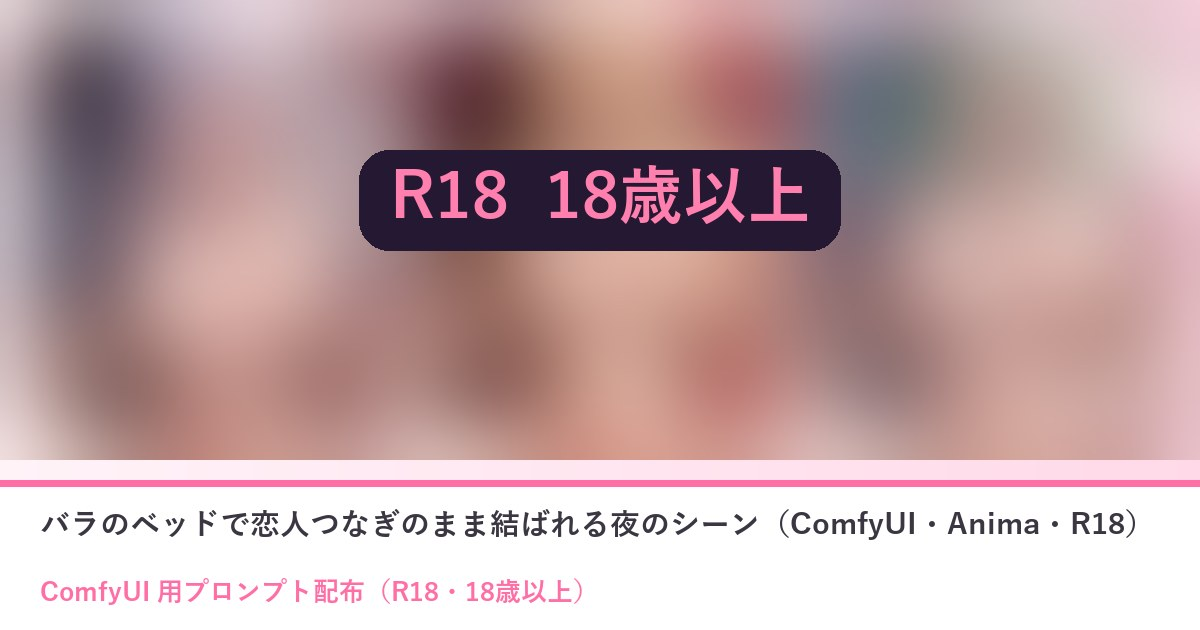
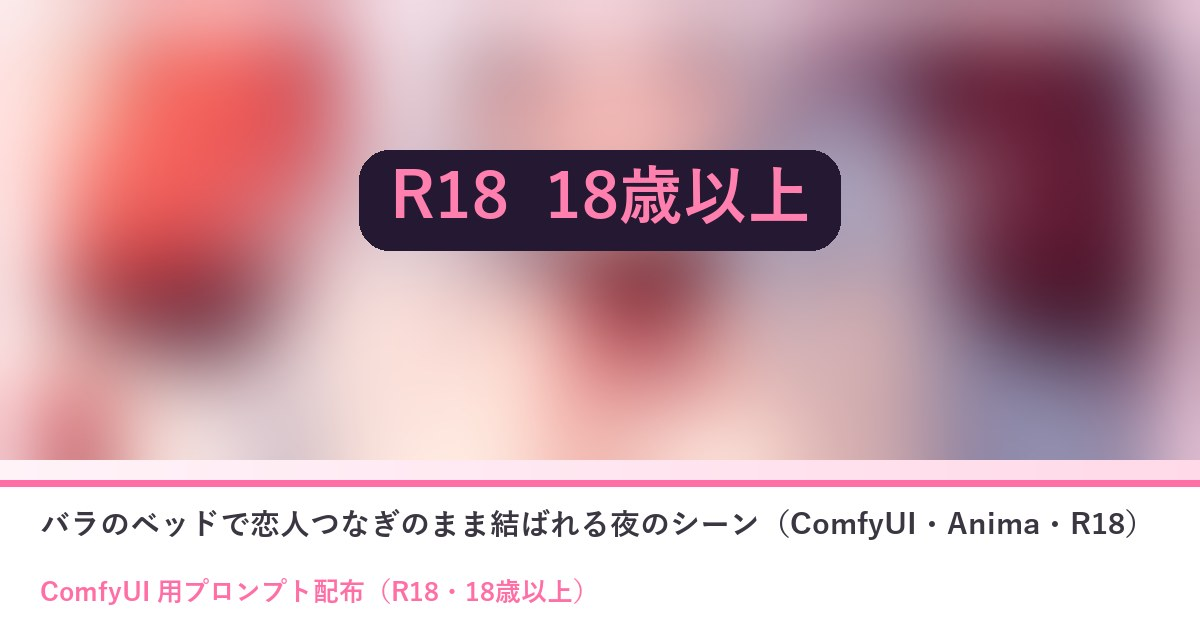
プロンプト配布 10/02 R18 を1枚・LoRA あり／なしに作り直し

diff --git a/prompts/2026-10-02-comfy-r18-j7m9mznm.html b/prompts/2026-10-02-comfy-r18-j7m9mznm.html
@@ -4,16 +4,16 @@
 <meta charset="UTF-8"><meta name="robots" content="noindex, nofollow, noarchive"><meta name="referrer" content="strict-origin">
 <meta name="viewport" content="width=device-width, initial-scale=1">
 <title>バラのベッドで恋人つなぎのまま結ばれる夜のシーン（ComfyUI・Anima・R18）｜ひみつの眠り姫</title>
-<meta name="description" content="バラの花びらを散らしたベッドに、ろうそくと月の明かり。両手を恋人つなぎにしたまま、上から見下ろす目線で正常位で結ばれて、ハートの瞳でとろけて笑う……甘くていやらしい初夜のようなシーンのプロンプトです（18歳以上の方だけ）">
+<meta name="description" content="バラの花びらを散らしたベッドに、ろうそくと月の明かり。両手を恋人つなぎにしたまま、上から見下ろす目線で正常位で結ばれて、とろけて笑う……甘くていやらしい初夜のようなシーンのプロンプトです（18歳以上の方だけ）。LoRA ">
 <meta property="og:title" content="バラのベッドで恋人つなぎのまま結ばれる夜のシーン（ComfyUI・Anima・R18）｜ひみつの眠り姫">
-<meta property="og:description" content="バラの花びらを散らしたベッドに、ろうそくと月の明かり。両手を恋人つなぎにしたまま、上から見下ろす目線で正常位で結ばれて、ハートの瞳でとろけて笑う……甘くていやらしい初夜のようなシーンのプロンプトです（18歳以上の方だけ）">
+<meta property="og:description" content="バラの花びらを散らしたベッドに、ろうそくと月の明かり。両手を恋人つなぎにしたまま、上から見下ろす目線で正常位で結ばれて、とろけて笑う……甘くていやらしい初夜のようなシーンのプロンプトです（18歳以上の方だけ）。LoRA ">
 <meta property="og:type" content="article">
 <meta property="og:url" content="https://himitsu-nemurihime.github.io/prompts/2026-10-02-comfy-r18-j7m9mznm.html">
 <meta property="og:image" content="https://himitsu-nemurihime.github.io/prompts/img/2026-10-02-comfy-r18-j7m9mznm/og.jpg">
 <meta property="og:image:width" content="1200"><meta property="og:image:height" content="630">
 <meta name="twitter:card" content="summary_large_image">
 <meta name="twitter:title" content="バラのベッドで恋人つなぎのまま結ばれる夜のシーン（ComfyUI・Anima・R18）｜ひみつの眠り姫">
-<meta name="twitter:description" content="バラの花びらを散らしたベッドに、ろうそくと月の明かり。両手を恋人つなぎにしたまま、上から見下ろす目線で正常位で結ばれて、ハートの瞳でとろけて笑う……甘くていやらしい初夜のようなシーンのプロンプトです（18歳以上の方だけ）">
+<meta name="twitter:description" content="バラの花びらを散らしたベッドに、ろうそくと月の明かり。両手を恋人つなぎにしたまま、上から見下ろす目線で正常位で結ばれて、とろけて笑う……甘くていやらしい初夜のようなシーンのプロンプトです（18歳以上の方だけ）。LoRA ">
 <meta name="twitter:image" content="https://himitsu-nemurihime.github.io/prompts/img/2026-10-02-comfy-r18-j7m9mznm/og.jpg">
 <meta name="theme-color" content="#FFF3F8">
 <link rel="preconnect" href="https://fonts.googleapis.com">
@@ -68,15 +68,17 @@
 @media(max-width:560px){.ps-ba{grid-template-columns:1fr}.ps-ba .arr{transform:rotate(90deg);text-align:center}.ps-vars,.ps-vars tbody,.ps-vars tr,.ps-vars th,.ps-vars td{display:block;width:auto;white-space:normal}.ps-vars tr:first-child{display:none}.ps-vars tr{border-bottom:1px solid var(--ps-line);padding:4px 0}.ps-vars th,.ps-vars td{border:0;padding:6px 12px}}
 .ps{overflow-wrap:anywhere}.ps-vars td,.ps-vars th{overflow-wrap:anywhere}.ps img{max-width:100%}
 </style>
-<!--ps-meta {"date": "2026-10-02", "title": "バラのベッドで恋人つなぎのまま結ばれる夜のシーン（ComfyUI・Anima・R18）", "kind": "comfy", "nsfw": true, "summary": "バラの花びらのベッドで、恋人つなぎのまま結ばれてとろける夜の一枚（R18）。貼るだけで作れます。", "thumb": ""}-->
+<!--ps-meta {"date": "2026-10-02", "title": "バラのベッドで恋人つなぎのまま結ばれる夜のシーン（ComfyUI・Anima・R18）", "kind": "comfy", "nsfw": true, "summary": "バラの花びらのベッドで、恋人つなぎのまま結ばれてとろける夜の一枚（R18）。LoRA あり／なしの2通り。", "thumb": ""}-->
 </head>
 <body>
 <div id="psgate" style="position:fixed;inset:0;z-index:50;background:rgba(36,24,50,.96);display:flex;align-items:center;justify-content:center;padding:20px"><div class="door" style="max-width:420px;background:#241832;color:#f6ecfa"><h2>ここから先は成人向けです</h2><p>18歳未満の方、苦手な方は開けずに戻ってください。</p><button class="gate-btn" id="psopen" type="button">18歳以上です</button></div></div><script>(function(){var g=document.getElementById('psgate');try{if(localStorage.getItem('hn_gate')==='1'){g.remove();return;}}catch(e){}document.getElementById('psopen').addEventListener('click',function(){try{localStorage.setItem('hn_gate','1');}catch(e){}g.remove();});})();</script><div class="sky"></div>
 <main class="wrap">
 <section class="sec"><div class="sec-head"><h2>バラのベッドで恋人つなぎのまま結ばれる夜のシーン（ComfyUI・Anima・R18）</h2><p>ひみつの眠り姫のプロンプト配布</p></div>
-<div class="ps"><p><span class="ps-badge">ComfyUI 用</span><span class="ps-badge">R18</span><span class="ps-badge">2026-10-02</span></p><p class="ps-lead">バラの花びらを散らしたベッドに、ろうそくと月の明かり。両手を恋人つなぎにしたまま、上から見下ろす目線で正常位で結ばれて、ハートの瞳でとろけて笑う……甘くていやらしい初夜のようなシーンのプロンプトです（18歳以上の方だけ）。オリキャラがいなくても、そのまま貼るだけで綺麗な女の子で出ます。自分のキャラにしたいときは、1行目の見た目だけ書き換えてください。</p><nav class="ps-toc" aria-label="目次"><p>📑 目次</p><ol><li><a href="#sec1">3人のひそひそ話（R18）</a></li><li><a href="#sec2">使い方（3ステップ）</a></li><li><a href="#sec3">プロンプト</a></li><li><a href="#sec4">必要なもの（ComfyUI）</a></li><li><a href="#sec5">メモ</a></li><li><a href="#sec6">配布ルール</a></li><li><a href="#sec7">バックナンバー</a></li></ol></nav><div class="ps-r18"><b>🔞 18歳未満の方は閲覧・使用できません。</b><br>非合意の表現・幼く見える人物の性的な表現には使わないでください。このページには作例の絵を置いていません（文字のプロンプトだけです）。</div><h2 id="sec1">3人のひそひそ話（R18）</h2><div class="ps-chat"><div class="ic">ティ</div><div><div class="who">ティルナ</div><div class="bub">ねえねえ、両手をぎゅーって恋人つなぎしたまま、上からずっと見つめられてるの……これ、ずるくない？</div></div></div><div class="ps-chat r"><div class="ic">セフ</div><div><div class="who">セフィリア</div><div class="bub">バラの花びらがお腹にまで落ちて、汗でしっとり光る肌に貼りついて……奥まで深く結ばれたまま、瞳がハートになっておりますね</div></div></div><div class="ps-chat r"><div class="ic">リリ</div><div><div class="who">リリア</div><div class="bub">1行目の髪の色を書き換えるだけで、金髪の三つ編みにも、黒髪のショートにもなりますの。ただ、1行目に solo は入れないでくださいませ。お相手が消えてしまいますわ</div></div></div><div class="ps-chat"><div class="ic">ティ</div><div><div class="who">ティルナ</div><div class="bub">舌まで出して、とろっとろの顔で笑ってる……ろうそくの明かりが、えっちな汗をきらきらさせてるよ〜</div></div></div><div class="ps-chat r"><div class="ic">セフ</div><div><div class="who">セフィリア</div><div class="bub">お相手のお顔は写らないようにしてございます。ネガティブの male face は、消さずにそのままで</div></div></div><div class="ps-chat r"><div class="ic">リリ</div><div><div class="who">リリア</div><div class="bub">甘い夜のお供に、どうぞ。18歳以上の方だけのお楽しみですわ</div></div></div><h2 id="sec2">使い方（3ステップ）</h2><ol class="ps-steps"><li>ComfyUI で Anima のモデルを読み、基本の画像生成（テキストから画像）の画面にする</li><li>下のポジティブとネガティブをワンタップでコピーして貼る（自分のキャラにするなら1行目だけ書き換える）</li><li>「推奨値」の大きさ・steps・CFG にして生成する（できれば 1.5 倍の hires fix も）</li></ol><h2 id="sec3">プロンプト</h2><div class="ps-note" style="margin-bottom:12px"><b>変えるのは1行目（色の付いた行）だけ</b><ul><li>1行目＝キャラの見た目（髪の色・髪型・目の色など）。自分のキャラの特徴に書き換えてね</li><li>オリキャラがいない人は、<b>そのまま</b>コピーして使えばOK（作例の女の子で出ます）</li><li>自分のキャラの LoRA がある人は、1行目に LoRA のトリガー語を入れてね</li><li>2行目から下（シーン）と、ネガティブプロンプトは変えずにそのまま</li><li>🚫 版権キャラの名前・版権キャラの LoRA を入れて使うのは固く禁止です（下の「配布ルール」）</li></ul></div><div class="ps-box"><button class="ps-copy" type="button" data-target="ps-prompt">📋 ワンタップでコピー</button><p style="margin:0 0 8px;font-size:.82rem;color:var(--ps-a)">ポジティブプロンプト</p><pre><mark class="ps-in" data-key="キャラの行">1girl, long hair, wavy hair, silver hair, purple eyes</mark>
-masterpiece, best quality, score_7, explicit, nsfw, sex, vaginal, missionary, penis, pov, faceless male, interlocked fingers, holding hands, lying, on back, on bed, completely nude, nipples, smile, happy, blush, heart-shaped pupils, open mouth, tongue out, sweat, wet, shiny skin, pussy juice, rose petals, petals on body, red rose, bed sheet, from above, night, candlelight, moonlight, romantic, depth of field, detailed background, cinematic lighting</pre><textarea class="ps-copyarea" id="ps-prompt" readonly aria-hidden="true" tabindex="-1">1girl, long hair, wavy hair, silver hair, purple eyes
-masterpiece, best quality, score_7, explicit, nsfw, sex, vaginal, missionary, penis, pov, faceless male, interlocked fingers, holding hands, lying, on back, on bed, completely nude, nipples, smile, happy, blush, heart-shaped pupils, open mouth, tongue out, sweat, wet, shiny skin, pussy juice, rose petals, petals on body, red rose, bed sheet, from above, night, candlelight, moonlight, romantic, depth of field, detailed background, cinematic lighting</textarea></div><div style="height:12px"></div><div class="ps-box"><button class="ps-copy" type="button" data-target="ps-negative">📋 ワンタップでコピー</button><p style="margin:0 0 8px;font-size:.82rem;color:var(--ps-a)">ネガティブプロンプト</p><pre>worst quality, low quality, lowres, bad anatomy, bad hands, extra fingers, missing fingers, fused fingers, blurry, jpeg artifacts, text, watermark, signature, logo, multiple girls, cropped, out of frame, male face, old man, fat man, sad, crying, japanese text, chinese text, korean text, kanji, hiragana, katakana, calligraphy</pre><textarea class="ps-copyarea" id="ps-negative" readonly aria-hidden="true" tabindex="-1">worst quality, low quality, lowres, bad anatomy, bad hands, extra fingers, missing fingers, fused fingers, blurry, jpeg artifacts, text, watermark, signature, logo, multiple girls, cropped, out of frame, male face, old man, fat man, sad, crying, japanese text, chinese text, korean text, kanji, hiragana, katakana, calligraphy</textarea></div><h2 id="sec4">必要なもの（ComfyUI）</h2><div class="ps-note">🧩 <b>カスタムノードは使っていません</b>。LoRA も要りません。ComfyUI の基本の画像生成（テキストから画像）に、ポジティブ・ネガティブを貼って、下の推奨値にするだけです。</div><table class="ps-vars" style="margin-top:12px"><tr><th>モデル</th><th>ファイル</th><th>置き場</th></tr><tr><td>Anima 系のモデル</td><td>PrismPalette_ANIMA_v1 など好きな Anima</td><td><code>models/diffusion_models</code></td></tr><tr><td>テキストエンコーダ（Anima 用）</td><td>qwen_3_06b_base.safetensors</td><td><code>models/text_encoders</code></td></tr><tr><td>VAE（Anima 用）</td><td>qwen_image_vae.safetensors</td><td><code>models/vae</code></td></tr></table><h2>推奨値</h2><table class="ps-vars"><tr><th>大きさ</th><td colspan="2">864×1536（縦長＝顔から結合部まで一枚に入る）</td></tr><tr><th>steps</th><td colspan="2">30</td></tr><tr><th>CFG</th><td colspan="2">4.5</td></tr><tr><th>sampler</th><td colspan="2">er_sde</td></tr><tr><th>scheduler</th><td colspan="2">beta</td></tr><tr><th>hires fix（任意）</th><td colspan="2">1.5 倍に拡大して denoise 0.4・同じ steps と CFG（作例はこれ）</td></tr><tr><th>LoRA</th><td colspan="2">要りません（自分のキャラの LoRA があれば使ってOK）</td></tr></table><h2 id="sec5">メモ</h2><ul class="ps-rules"><li>1行目には見た目だけを書いてください（髪の色・長さ・髪型・髪飾り・目の色など）。行為・ベッド・光は2行目からに入っています。1行目に solo は入れないでください（相手が消えます）。</li><li>相手の男性は顔が写らない形にしてあります。ネガティブの male face は消さないでください。</li><li>恋人つなぎの指はからみ合う分くずれやすいので、気になったら seed を変えて何枚か焼いてください。</li><li>SNS に投稿するときは、そのサービスの決まりどおりモザイクやラベルを付けてください（作例はモザイク済みのものだけ見せています）。</li></ul><h2 id="sec6">配布ルール</h2><ul class="ps-rules"><li>⭕ プロンプトの改変は自由です。</li><li>⭕ 生成した画像は SNS に投稿して大丈夫です。</li><li>❌ プロンプト文そのものの転載・再配布・販売はしないでください。</li><li>❌ 自作のプロンプトだと名乗ることはやめてください。</li><li>❌ このページの作例画像の無断転載はしないでください。</li><li class="ps-rights">🚫 <b>アニメ・漫画・ゲームなどの版権キャラクター（著作権・商標のあるキャラ）、他の人のキャラクターやイラスト、実在の人物の写真を添付画像にして使うことは固く禁止します。</b>版権キャラの名前や、版権キャラの LoRA を入れて使うことも禁止です。</li><li>✅ 添付してよいのは、<b>自分で作ったキャラクター・自分が権利を持つ画像</b>（または権利者から使ってよいと言われた画像）だけです。</li><li>⚠ 生成した画像の使い方（投稿・公開など）は、使った人の責任でお願いします。権利の問題が起きても、配布者は責任を負えません。</li><li>💌 使ったら <b>#眠り姫NSFWプロンプト</b> を付けて見せてくれたら、とても嬉しいです（任意です）。</li></ul><h2 id="sec7">バックナンバー</h2><div class="ps-note">📚 これまでの配布は <a href="index.html"><b>バックナンバー</b></a> にまとめてあります（作例の絵と内容が一覧で見られます）。お友だちに教えるときは、バックナンバーのページの URL を送ればOKです。</div></div>
+<div class="ps"><p><span class="ps-badge">ComfyUI 用</span><span class="ps-badge">R18</span><span class="ps-badge">2026-10-02</span></p><p class="ps-lead">バラの花びらを散らしたベッドに、ろうそくと月の明かり。両手を恋人つなぎにしたまま、上から見下ろす目線で正常位で結ばれて、とろけて笑う……甘くていやらしい初夜のようなシーンのプロンプトです（18歳以上の方だけ）。LoRA が無くても、A をそのまま貼るだけで綺麗な女の子で出ます。自分のキャラの LoRA を持っている人は B をどうぞ。</p><nav class="ps-toc" aria-label="目次"><p>📑 目次</p><ol><li><a href="#sec1">3人のひそひそ話（R18）</a></li><li><a href="#sec2">使い方（3ステップ）</a></li><li><a href="#sec3">プロンプト</a></li><li><a href="#sec4">必要なもの（ComfyUI）</a></li><li><a href="#sec5">メモ</a></li><li><a href="#sec6">配布ルール</a></li></ol></nav><div class="ps-r18"><b>🔞 18歳未満の方は閲覧・使用できません。</b><br>非合意の表現・幼く見える人物の性的な表現には使わないでください。このページには作例の絵を置いていません（文字のプロンプトだけです）。</div><h2 id="sec1">3人のひそひそ話（R18）</h2><div class="ps-chat"><div class="ic">ティ</div><div><div class="who">ティルナ</div><div class="bub">ねえねえ、両手をぎゅーって恋人つなぎしたまま、上からずっと見つめられてるの……これ、ずるくない？</div></div></div><div class="ps-chat r"><div class="ic">セフ</div><div><div class="who">セフィリア</div><div class="bub">バラの花びらの散ったシーツに、ろうそくの灯り。奥まで深く結ばれたまま、とろけたお顔で笑っておりますね</div></div></div><div class="ps-chat r"><div class="ic">リリ</div><div><div class="who">リリア</div><div class="bub">LoRA が無い方は A をそのまま貼るだけですわ。ただ、1行目に solo は入れないでくださいませ。お相手が消えてしまいますの</div></div></div><div class="ps-chat"><div class="ic">ティ</div><div><div class="who">ティルナ</div><div class="bub">LoRA がある人は B だよ！ 1行目の your_lora_trigger を自分のトリガー語にするだけ！</div></div></div><div class="ps-chat r"><div class="ic">セフ</div><div><div class="who">セフィリア</div><div class="bub">お相手のお顔は写らないようにしてございます。ネガティブの male face は、消さずにそのままで</div></div></div><div class="ps-chat r"><div class="ic">リリ</div><div><div class="who">リリア</div><div class="bub">甘い夜のお供に、どうぞ。18歳以上の方だけのお楽しみですわ</div></div></div><h2 id="sec2">使い方（3ステップ）</h2><ol class="ps-steps"><li>ComfyUI で Anima のモデルを読み、基本の画像生成（テキストから画像）の画面にする</li><li>下の A（LoRA なし）か B（LoRA あり）のポジティブと、ネガティブをワンタップでコピーして貼る</li><li>「推奨値」の大きさ・steps・CFG にして生成する（できれば 1.5 倍の hires fix も）</li></ol><h2 id="sec3">プロンプト</h2><div class="ps-note" style="margin-bottom:12px"><b>変えるのは1行目（色の付いた行）だけ</b><ul><li>使うプロンプトは2通り＝<b>A. LoRA を持っていない人</b>／<b>B. 自分のキャラの LoRA を持っている人</b>。どちらも丸ごとコピーして貼るだけ</li><li>A は<b>そのまま</b>でも綺麗な女の子で出ます。自分のキャラにするなら1行目の髪の色・髪型・目の色を書き換えるだけ</li><li>B は1行目の <code>your_lora_trigger</code> を自分の LoRA のトリガー語に置きかえるだけ（LoRA の強さは下の表）</li><li>2行目から下（シーン）と、ネガティブプロンプトは変えずにそのまま</li><li>🚫 版権キャラの名前・版権キャラの LoRA を入れて使うのは固く禁止です（下の「配布ルール」）</li></ul></div><h3 style="margin:14px 0 8px">A. LoRA を持っていない人（そのままでもOK）</h3><div class="ps-box"><button class="ps-copy" type="button" data-target="ps-prompt">📋 ワンタップでコピー</button><p style="margin:0 0 8px;font-size:.82rem;color:var(--ps-a)">ポジティブプロンプト</p><pre><mark class="ps-in" data-key="キャラの行">1girl, long hair, white hair, purple eyes</mark>
+masterpiece, best quality, score_7, explicit, cowboy shot, pov, from above, looking at viewer, happy, smile, heart-shaped pupils, open mouth, tongue out, blush, sex, vaginal, missionary, penis, faceless male, interlocked fingers, holding hands, lying, on back, on bed, completely nude, nipples, sweat, wet, shiny skin, pussy juice, rose petals, petals, red rose, bed sheet, bedroom, canopy bed, night, candlelight, moonlight, warm colors, steam, hair spread out, hair flower, choker, earrings, bracelet, lace-trimmed thighhighs, garter straps, sidelighting, frills, floral print, lace-trimmed skirt, pillow, flower basket, red ribbon, excessive pussy juice, depth of field</pre><textarea class="ps-copyarea" id="ps-prompt" readonly aria-hidden="true" tabindex="-1">1girl, long hair, white hair, purple eyes
+masterpiece, best quality, score_7, explicit, cowboy shot, pov, from above, looking at viewer, happy, smile, heart-shaped pupils, open mouth, tongue out, blush, sex, vaginal, missionary, penis, faceless male, interlocked fingers, holding hands, lying, on back, on bed, completely nude, nipples, sweat, wet, shiny skin, pussy juice, rose petals, petals, red rose, bed sheet, bedroom, canopy bed, night, candlelight, moonlight, warm colors, steam, hair spread out, hair flower, choker, earrings, bracelet, lace-trimmed thighhighs, garter straps, sidelighting, frills, floral print, lace-trimmed skirt, pillow, flower basket, red ribbon, excessive pussy juice, depth of field</textarea></div><h3 style="margin:18px 0 8px">B. 自分のキャラの LoRA を持っている人</h3><div class="ps-box"><button class="ps-copy" type="button" data-target="ps-prompt-lora">📋 ワンタップでコピー</button><p style="margin:0 0 8px;font-size:.82rem;color:var(--ps-a)">ポジティブプロンプト（LoRA 用）</p><pre><mark class="ps-in" data-key="キャラの行">1girl, solo, your_lora_trigger</mark>
+masterpiece, best quality, score_7, explicit, cowboy shot, pov, from above, looking at viewer, happy, smile, heart-shaped pupils, open mouth, tongue out, blush, sex, vaginal, missionary, penis, faceless male, interlocked fingers, holding hands, lying, on back, on bed, completely nude, nipples, sweat, wet, shiny skin, pussy juice, rose petals, petals, red rose, bed sheet, bedroom, canopy bed, night, candlelight, moonlight, warm colors, steam, hair spread out, hair flower, choker, earrings, bracelet, lace-trimmed thighhighs, garter straps, sidelighting, frills, floral print, lace-trimmed skirt, pillow, flower basket, red ribbon, excessive pussy juice, depth of field</pre><textarea class="ps-copyarea" id="ps-prompt-lora" readonly aria-hidden="true" tabindex="-1">1girl, solo, your_lora_trigger
+masterpiece, best quality, score_7, explicit, cowboy shot, pov, from above, looking at viewer, happy, smile, heart-shaped pupils, open mouth, tongue out, blush, sex, vaginal, missionary, penis, faceless male, interlocked fingers, holding hands, lying, on back, on bed, completely nude, nipples, sweat, wet, shiny skin, pussy juice, rose petals, petals, red rose, bed sheet, bedroom, canopy bed, night, candlelight, moonlight, warm colors, steam, hair spread out, hair flower, choker, earrings, bracelet, lace-trimmed thighhighs, garter straps, sidelighting, frills, floral print, lace-trimmed skirt, pillow, flower basket, red ribbon, excessive pussy juice, depth of field</textarea></div><table class="ps-vars" style="margin-top:10px"><tr><th>LoRA のつなぎ方</th><td colspan="2">Load Diffusion Model（Anima）のうしろに LoraLoaderModelOnly を1つ足す（CLIP にはつながない）</td></tr><tr><th>LoRA の強さ（strength_model）</th><td colspan="2">0.8〜0.9（作例は 0.85）</td></tr><tr><th>1行目</th><td colspan="2">your_lora_trigger を自分の LoRA のトリガー語に置きかえる（髪や目の色は LoRA が覚えているので書かなくてOK）</td></tr></table><p style="font-size:.85rem;margin:10px 0 0">ネガティブプロンプトは A・B 共通（下）です。</p><div style="height:12px"></div><div class="ps-box"><button class="ps-copy" type="button" data-target="ps-negative">📋 ワンタップでコピー</button><p style="margin:0 0 8px;font-size:.82rem;color:var(--ps-a)">ネガティブプロンプト</p><pre>worst quality, low quality, lowres, bad anatomy, bad hands, extra fingers, missing fingers, fused fingers, blurry, jpeg artifacts, text, watermark, signature, logo, extra person, multiple girls, cropped, out of frame, male face, old man, fat man, japanese text, chinese text, korean text, kanji, hiragana, katakana, calligraphy</pre><textarea class="ps-copyarea" id="ps-negative" readonly aria-hidden="true" tabindex="-1">worst quality, low quality, lowres, bad anatomy, bad hands, extra fingers, missing fingers, fused fingers, blurry, jpeg artifacts, text, watermark, signature, logo, extra person, multiple girls, cropped, out of frame, male face, old man, fat man, japanese text, chinese text, korean text, kanji, hiragana, katakana, calligraphy</textarea></div><h2 id="sec4">必要なもの（ComfyUI）</h2><div class="ps-note">🧩 <b>カスタムノードは使っていません</b>。LoRA が無くても大丈夫（A のプロンプト）。ComfyUI の基本の画像生成（テキストから画像）に、ポジティブ・ネガティブを貼って、下の推奨値にするだけです。LoRA を使う人は「LoraLoaderModelOnly」を1つ足すだけ（B のプロンプト）。</div><table class="ps-vars" style="margin-top:12px"><tr><th>モデル</th><th>ファイル</th><th>置き場</th></tr><tr><td>Anima 系のモデル</td><td>PrismPalette_ANIMA_v1 など好きな Anima</td><td><code>models/diffusion_models</code></td></tr><tr><td>テキストエンコーダ（Anima 用）</td><td>qwen_3_06b_base.safetensors</td><td><code>models/text_encoders</code></td></tr><tr><td>VAE（Anima 用）</td><td>qwen_image_vae.safetensors</td><td><code>models/vae</code></td></tr></table><h2>推奨値</h2><table class="ps-vars"><tr><th>大きさ</th><td colspan="2">864×1536（縦長＝顔から結合部まで一枚に入る）</td></tr><tr><th>steps</th><td colspan="2">30</td></tr><tr><th>CFG</th><td colspan="2">4.5</td></tr><tr><th>sampler</th><td colspan="2">er_sde</td></tr><tr><th>scheduler</th><td colspan="2">beta</td></tr><tr><th>hires fix（任意）</th><td colspan="2">1.5 倍に拡大して denoise 0.4・同じ steps と CFG（試し焼きはこれ）</td></tr><tr><th>LoRA</th><td colspan="2">無くてOK（A のプロンプト）。自分のキャラの LoRA があれば B のプロンプトで</td></tr></table><h2 id="sec5">メモ</h2><ul class="ps-rules"><li>A（LoRA なし）は1行目の髪の色・長さ・髪型・目の色を書き換えるだけで、自分のキャラに近づけられます。そのままでも綺麗な女の子で出ます（試し焼きで確かめてあります）。1行目に solo は入れないでください（相手が消えます）。</li><li>B（LoRA あり）は1行目の your_lora_trigger を自分の LoRA のトリガー語にするだけ。髪や目の色は LoRA が覚えているので書かなくて大丈夫です。</li><li>相手の男性は顔が写らない形にしてあります。ネガティブの male face は消さないでください。恋人つなぎの指はくずれやすいので、気になったら seed を変えてください。</li><li>SNS に投稿するときは、そのサービスの決まりどおりモザイクやラベルを付けてください（作例はモザイク済みのものだけ見せています）。</li></ul><h2 id="sec6">配布ルール</h2><ul class="ps-rules"><li>⭕ プロンプトの改変は自由です。</li><li>⭕ 生成した画像は SNS に投稿して大丈夫です。</li><li>❌ プロンプト文そのものの転載・再配布・販売はしないでください。</li><li>❌ 自作のプロンプトだと名乗ることはやめてください。</li><li>❌ このページの作例画像の無断転載はしないでください。</li><li class="ps-rights">🚫 <b>アニメ・漫画・ゲームなどの版権キャラクター（著作権・商標のあるキャラ）、他の人のキャラクターやイラスト、実在の人物の写真を添付画像にして使うことは固く禁止します。</b>版権キャラの名前や、版権キャラの LoRA を入れて使うことも禁止です。</li><li>✅ 添付してよいのは、<b>自分で作ったキャラクター・自分が権利を持つ画像</b>（または権利者から使ってよいと言われた画像）だけです。</li><li>⚠ 生成した画像の使い方（投稿・公開など）は、使った人の責任でお願いします。権利の問題が起きても、配布者は責任を負えません。</li><li>💌 使ったら <b>#眠り姫NSFWプロンプト</b> を付けて見せてくれたら、とても嬉しいです（任意です）。</li></ul></div>
 <p style="text-align:center;margin:34px 0 0"><a class="gate-btn ghost" href="../index.html" style="color:var(--ink-dim);border-color:var(--line)">部屋に戻る</a></p>
 </section>
 </main>
